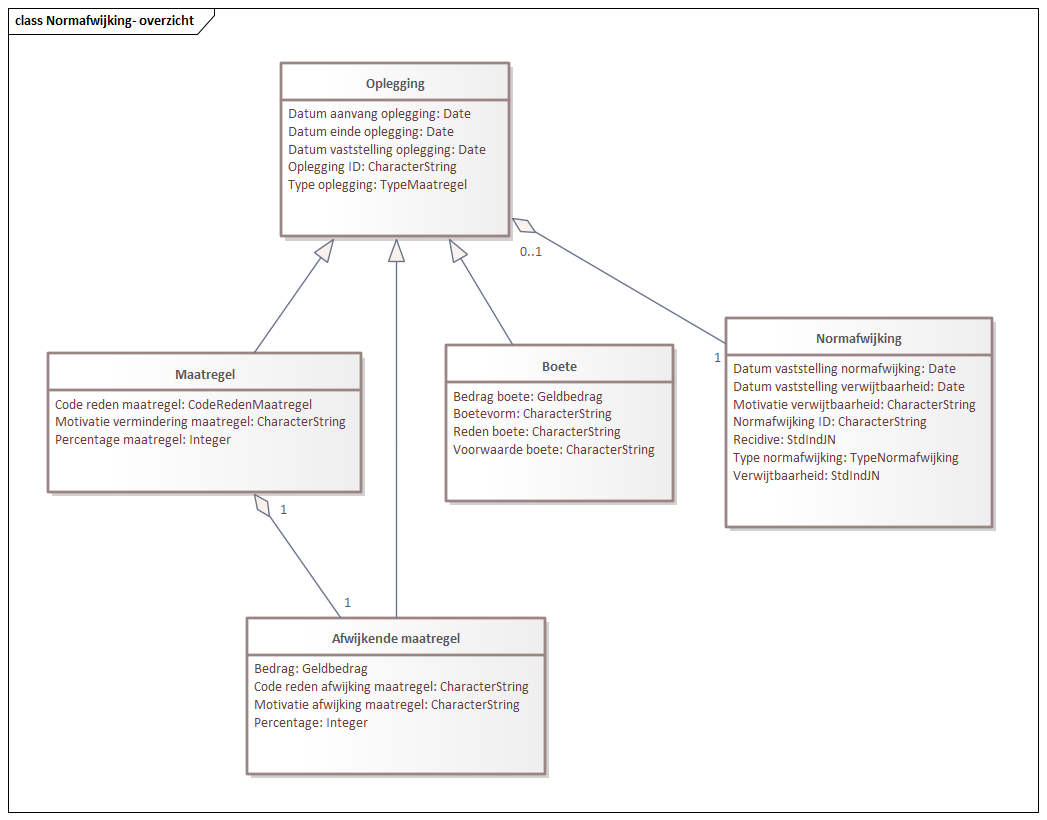
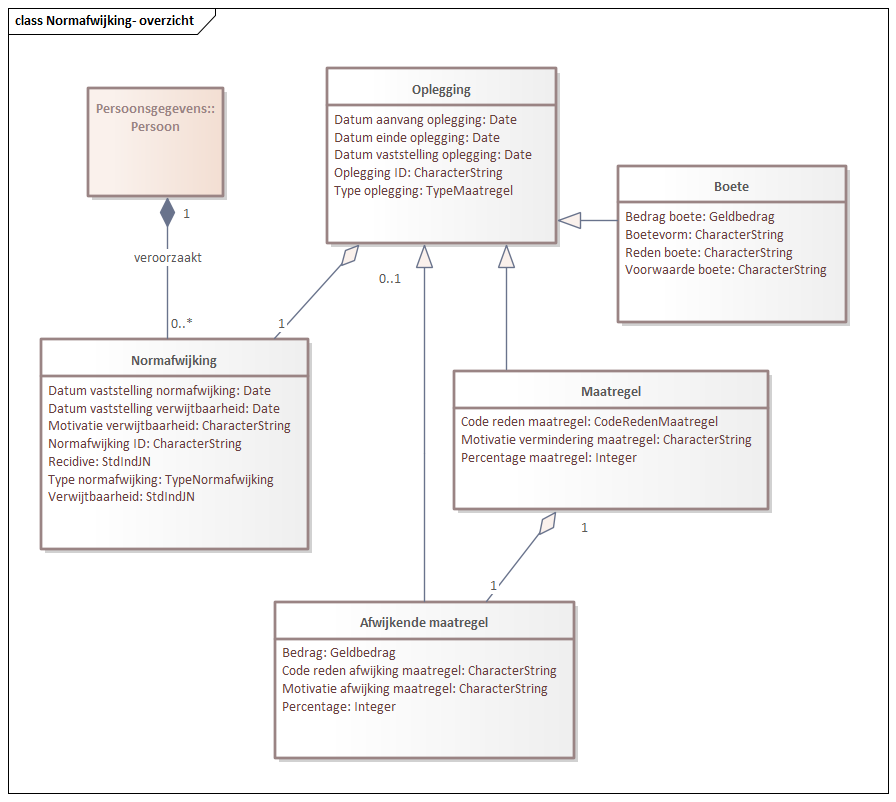
a

Changed region(s): [[0.0, 0.0, 1.0, 0.9975], [0.1562, 0.3117, 0.2188, 0.3429], [0.9688, 0.0, 1.0, 0.0312]]

diff --git a/normafwijking.html b/normafwijking.html
@@ -1,6 +1,7 @@
+        <h2>Gegevensdefinitie</h2>
          <p><b>Deze tekst is normatief.</b>
-            <!--SIM-InkomenModellen-1.0-1-20230101-20250317-135746 imvertor 4.0.0--></p>
-         <div class="imageinfo overview"><img src="Images/EAID_57496320_5D37_4fb1_8800_BD7A777C7A2E.png" usemap="#imagemap-EAID_57496320_5D37_4fb1_8800_BD7A777C7A2E" alt="Diagram: Normafwijking- overzicht"><map name="imagemap-EAID_57496320_5D37_4fb1_8800_BD7A777C7A2E"><area shape="rect" alt="Normafwijking" coords="726,318,993,528" href="#global_class_Normafwijking_Normafwijking"><area shape="rect" alt="Oplegging" coords="281,63,510,237" href="#global_class_Normafwijking_Oplegging"><area shape="rect" alt="Boete" coords="446,345,674,502" href="#global_class_Normafwijking_Boete"><area shape="rect" alt="Afwijkende maatregel" coords="247,618,546,775" href="#global_class_Normafwijking_Afwijkendemaatregel"><area shape="rect" alt="Maatregel" coords="48,353,362,493" href="#global_class_Normafwijking_Maatregel"></map><p><b>Normafwijking- overzicht</b>
+            <!--SIM-InkomenModellen-1.0-1-20230101-20250616-134612 imvertor 4.0.0--></p>
+         <div class="imageinfo overview"><img src="Images/EAID_57496320_5D37_4fb1_8800_BD7A777C7A2E.png" usemap="#imagemap-EAID_57496320_5D37_4fb1_8800_BD7A777C7A2E" alt="Diagram: Normafwijking- overzicht"><map name="imagemap-EAID_57496320_5D37_4fb1_8800_BD7A777C7A2E"><area shape="rect" alt="Persoonsgegevens::Persoon" coords="88,88,224,197" href="#global_class_Normafwijking_PersoonsgegevensPersoon"><area shape="rect" alt="Normafwijking" coords="41,339,309,550" href="#global_class_Normafwijking_Normafwijking"><area shape="rect" alt="Oplegging" coords="327,68,557,244" href="#global_class_Normafwijking_Oplegging"><area shape="rect" alt="Boete" coords="618,166,847,323" href="#global_class_Normafwijking_Boete"><area shape="rect" alt="Afwijkende maatregel" coords="275,602,575,759" href="#global_class_Normafwijking_Afwijkendemaatregel"><area shape="rect" alt="Maatregel" coords="454,371,769,510" href="#global_class_Normafwijking_Maatregel"></map><p><b>Normafwijking- overzicht</b>
                
                <p></p>
                </p>
@@ -562,6 +563,20 @@
                            </td>
                         <td></td>
                      </tr>
+                     <tr>
+                        <td>
+                           Normafwijking
+                           [ 0 .. * ]
+                           
+                           <a class="link" href="#detail_association_Normafwijking_Normafwijking_veroorzaakt">veroorzaakt</a>
+                           
+                           
+                           <a class="link" href="#global_class_Normafwijking_PersoonsgegevensPersoon">Persoonsgegevens::Persoon</a>
+                           
+                           [ 1 ]
+                           </td>
+                        <td></td>
+                     </tr>
                   </tbody>
                </table>
                
@@ -695,6 +710,74 @@
                            
                            <a class="link" href="#global_class_Normafwijking_Oplegging">Oplegging</a>
                            
+                           </td>
+                        <td></td>
+                     </tr>
+                  </tbody>
+               </table>
+               
+               
+               </section>
+            
+            <section id="global_class_Normafwijking_PersoonsgegevensPersoon">
+               <h4>   Persoonsgegevens::Persoon</h4>
+               
+               <table style="width: 100%;">
+                  <colgroup style="width: 30%;"></colgroup>
+                  <colgroup style="width: 70%;"></colgroup>
+                  <tbody>
+                     <tr>
+                        <th>Naam</th>
+                        <td>Persoonsgegevens::Persoon</td>
+                     </tr>
+                     <tr>
+                        <th>Herkomst</th>
+                        <td> </td>
+                     </tr>
+                     <tr>
+                        <th>Definitie</th>
+                        <td> </td>
+                     </tr>
+                     <tr>
+                        <th>Herkomst definitie</th>
+                        <td> </td>
+                     </tr>
+                     <tr>
+                        <th>Datum opname</th>
+                        <td> </td>
+                     </tr>
+                     <tr>
+                        <th>Unieke aanduiding</th>
+                        <td> </td>
+                     </tr>
+                     <tr>
+                        <th>Indicatie abstract object</th>
+                        <td>Nee</td>
+                     </tr>
+                  </tbody>
+               </table>
+               
+               <h5>Overzicht relaties  </h5>
+               
+               <table style="width: 100%;">
+                  <colgroup style="width: 50%;"></colgroup>
+                  <colgroup style="width: 50%;"></colgroup>
+                  <tbody>
+                     <tr>
+                        <th>Relatienaam met kardinaliteiten</th>
+                        <th>Definitie</th>
+                     </tr>
+                     <tr>
+                        <td>
+                           
+                           <a class="link" href="#global_class_Normafwijking_Normafwijking">Normafwijking</a>
+                           
+                           [ 0 .. * ]
+                           
+                           <a class="link" href="#detail_association_Normafwijking_Normafwijking_veroorzaakt">veroorzaakt</a>
+                           
+                           Persoonsgegevens::Persoon
+                           [ 1 ]
                            </td>
                         <td></td>
                      </tr>
@@ -2152,6 +2235,68 @@
                      </table>
                      
                      </section>
+                  
+                  <section id="detail_association_Normafwijking_Normafwijking_veroorzaakt">
+                     <h6>Relatiesoort details  <a href="#global_class_Normafwijking_Normafwijking">Normafwijking</a> veroorzaakt</h6>
+                     
+                     <table style="width: 100%;">
+                        <colgroup style="width: 30%;"></colgroup>
+                        <colgroup style="width: 70%;"></colgroup>
+                        <tbody>
+                           <tr>
+                              <th>Naam</th>
+                              <td>veroorzaakt</td>
+                           </tr>
+                           <tr>
+                              <th>Gerelateerd objecttype</th>
+                              <td>
+                                 <a class="link" href="#global_class_Normafwijking_PersoonsgegevensPersoon">Persoonsgegevens::Persoon</a>
+                                 </td>
+                           </tr>
+                           <tr>
+                              <th>Herkomst</th>
+                              <td> </td>
+                           </tr>
+                           <tr>
+                              <th>Definitie</th>
+                              <td> </td>
+                           </tr>
+                           <tr>
+                              <th>Herkomst definitie</th>
+                              <td> </td>
+                           </tr>
+                           <tr>
+                              <th>Datum opname</th>
+                              <td> </td>
+                           </tr>
+                           <tr>
+                              <th>Mogelijk geen waarde</th>
+                              <td>Nee</td>
+                           </tr>
+                           <tr>
+                              <th>Indicatie in onderzoek</th>
+                              <td>Nee</td>
+                           </tr>
+                           <tr>
+                              <th>Aanduiding strijdigheid/nietigheid</th>
+                              <td> </td>
+                           </tr>
+                           <tr>
+                              <th>Indicatie kardinaliteit</th>
+                              <td>1</td>
+                           </tr>
+                           <tr>
+                              <th>Indicatie authentiek</th>
+                              <td>Authentiek</td>
+                           </tr>
+                           <tr>
+                              <th>Regels</th>
+                              <td> </td>
+                           </tr>
+                        </tbody>
+                     </table>
+                     
+                     </section>
                   </section>
                
                <section id="detail_class_Normafwijking_Afwijkendemaatregel">
@@ -2479,6 +2624,7 @@
                      
                      </section>
                   </section>
+               
                </section>
             
             
